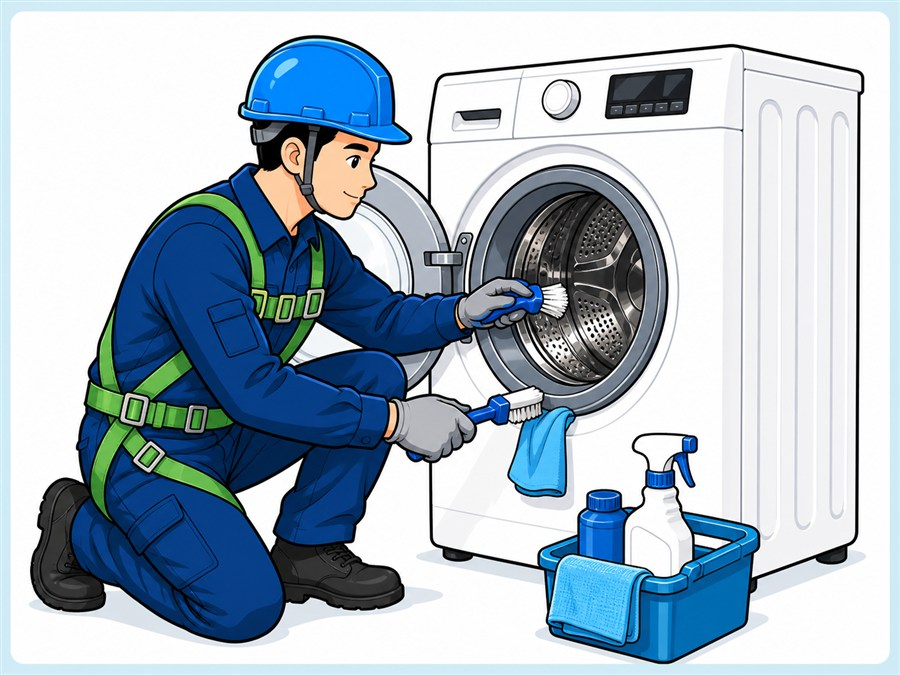
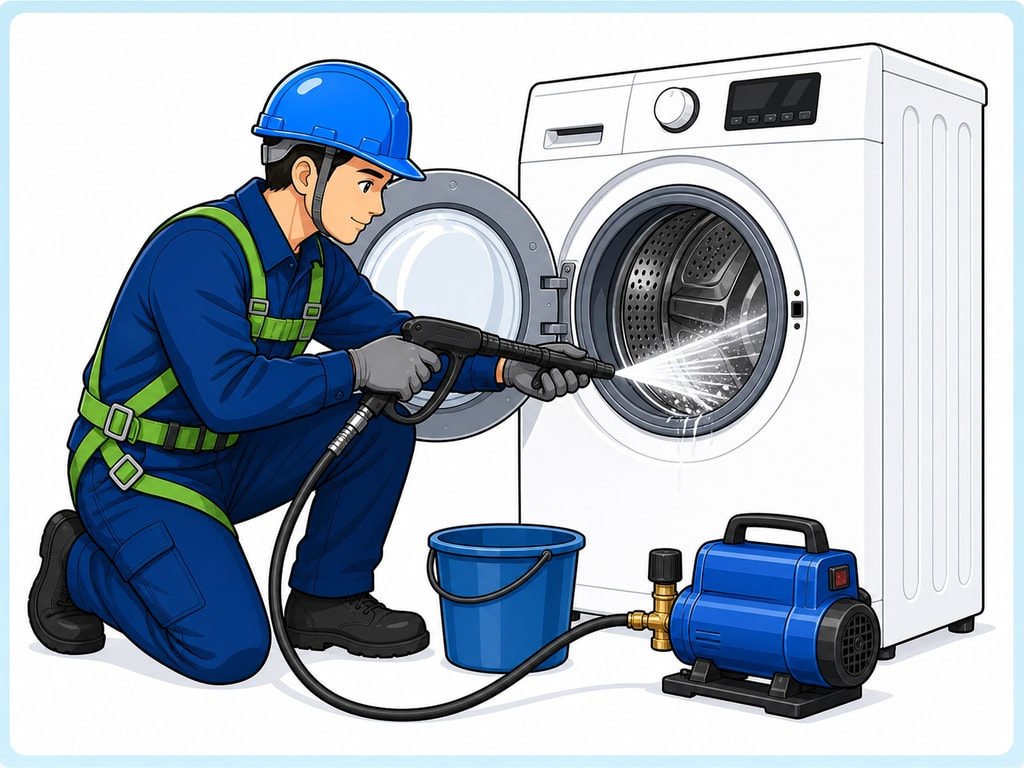
change image service: done

diff --git a/apps/web/app/page.tsx b/apps/web/app/page.tsx
@@ -4,18 +4,13 @@ import {
   ArrowRight,
   BadgeCheck,
   CalendarCheck,
-  CheckCircle2,
   Clock,
-  ClipboardCheck,
-  Droplets,
-  Fan,
   LucideIcon,
   MapPin,
   MessageCircle,
   Phone,
   ShieldCheck,
   Sparkles,
-  Wrench,
   Zap,
 } from 'lucide-react';
 import { APP_NAME, FAQS, PRIORITY_DISTRICTS, SERVICES, TARGET_CITY } from '@minhnhat/shared';
@@ -56,8 +51,6 @@ const processSteps = [
   ['04', 'Hoàn tất', 'Thi công, chạy thử, nghiệm thu và nhắc lịch bảo trì khi cần.'],
 ];
 
-const serviceIcons = [Fan, Droplets, Wrench, Zap, ClipboardCheck, ShieldCheck, CalendarCheck, CheckCircle2];
-
 export default function HomePage() {
   const phoneHref = `tel:${integrationSettings.phone.replace(/\s/g, '')}`;
 
@@ -86,8 +79,8 @@ export default function HomePage() {
               {APP_NAME}
             </h1>
             <p className="mt-6 max-w-2xl text-lg font-medium leading-8 text-slate-200">
-              Dịch vụ sửa chữa, vệ sinh và lắp đặt điện lạnh tại {TARGET_CITY}. Tập trung vào phản hồi nhanh,
-              báo giá rõ và trải nghiệm đặt lịch gọn cho khách hàng.
+              Dịch vụ sửa chữa, vệ sinh và lắp đặt điện lạnh tại {TARGET_CITY}. Tập trung vào phản
+              hồi nhanh, báo giá rõ và trải nghiệm đặt lịch gọn cho khách hàng.
             </p>
 
             <div className="mt-8 flex flex-wrap gap-3">
@@ -109,7 +102,10 @@ export default function HomePage() {
 
             <div className="mt-10 grid max-w-2xl gap-3 sm:grid-cols-3">
               {stats.map((item) => (
-                <div key={item.label} className="rounded-md border border-white/10 bg-white/10 p-4 backdrop-blur-md">
+                <div
+                  key={item.label}
+                  className="rounded-md border border-white/10 bg-white/10 p-4 backdrop-blur-md"
+                >
                   <span className={`inline-flex rounded px-2 py-1 text-xs font-bold ${item.tone}`}>
                     {item.value}
                   </span>
@@ -142,7 +138,10 @@ export default function HomePage() {
       <section className="relative -mt-10 z-10">
         <div className="container grid gap-3 md:grid-cols-3">
           {trustItems.map(({ icon: Icon, title, desc }) => (
-            <article key={title} className="rounded-md border border-slate-200 bg-white p-5 shadow-lg shadow-slate-200/70">
+            <article
+              key={title}
+              className="rounded-md border border-slate-200 bg-white p-5 shadow-lg shadow-slate-200/70"
+            >
               <div className="flex items-start gap-4">
                 <span className="inline-flex h-11 w-11 shrink-0 items-center justify-center rounded-md bg-primary text-white">
                   <Icon className="h-5 w-5" />
@@ -160,56 +159,55 @@ export default function HomePage() {
       <section className="container py-16 lg:py-20">
         <div className="flex flex-col justify-between gap-5 md:flex-row md:items-end">
           <div className="max-w-2xl">
-            <p className="text-sm font-bold uppercase tracking-wide text-primary">Dịch vụ trọng tâm</p>
+            <p className="text-sm font-bold uppercase tracking-wide text-primary">
+              Dịch vụ trọng tâm
+            </p>
             <h2 className="mt-2 text-3xl font-black tracking-normal sm:text-4xl">
               Nhìn là biết việc cần làm, bấm là đặt được lịch
             </h2>
             <p className="mt-3 text-slate-600">
-              Các nhóm dịch vụ được tách rõ để khách hàng chọn nhanh, mỗi dịch vụ có trang riêng cho SEO địa phương.
+              Các nhóm dịch vụ được tách rõ để khách hàng chọn nhanh, mỗi dịch vụ có trang riêng cho
+              SEO địa phương.
             </p>
           </div>
-          <Link className="inline-flex items-center gap-2 text-sm font-bold text-primary" href="/services">
+          <Link
+            className="inline-flex items-center gap-2 text-sm font-bold text-primary"
+            href="/services"
+          >
             Xem tất cả dịch vụ
             <ArrowRight className="h-4 w-4" />
           </Link>
         </div>
 
         <div className="mt-8 grid gap-4 sm:grid-cols-2 lg:grid-cols-4">
-          {SERVICES.map((service, index) => {
-            const Icon = serviceIcons[index % serviceIcons.length];
-
-            return (
-              <Link
-                key={service.slug}
-                href={`/services/${service.slug}`}
-                className="group overflow-hidden rounded-md border border-slate-200 bg-white shadow-sm transition duration-300 hover:-translate-y-1 hover:border-primary/50 hover:shadow-xl hover:shadow-slate-200"
-              >
-                <div className="relative aspect-[4/3] overflow-hidden bg-slate-100">
-                  <Image
-                    src={`/images/services/${service.slug}.jpg`}
-                    alt={`${service.name} tại Cần Thơ`}
-                    fill
-                    className="object-cover transition duration-700 group-hover:scale-105"
-                    sizes="(min-width: 1024px) 25vw, (min-width: 640px) 50vw, 100vw"
-                  />
-                  <div className="absolute inset-0 bg-[linear-gradient(0deg,rgb(15_23_42_/_0.42)_0%,rgb(15_23_42_/_0)_55%)]" />
-                  <span className="absolute bottom-4 left-4 inline-flex h-11 w-11 items-center justify-center rounded-md bg-white text-primary shadow-lg transition group-hover:bg-primary group-hover:text-white">
-                    <Icon className="h-6 w-6" />
-                  </span>
-                </div>
-                <div className="p-5">
-                  <h3 className="min-h-12 text-lg font-black leading-6">{service.name}</h3>
-                  <p className="mt-3 text-sm leading-6 text-slate-600">
-                    Tư vấn đúng tình trạng, báo giá trước và hỗ trợ tận nơi tại Cần Thơ.
-                  </p>
-                  <span className="mt-5 inline-flex items-center gap-2 text-sm font-bold text-primary">
-                    Xem chi tiết
-                    <ArrowRight className="h-4 w-4 transition group-hover:translate-x-1" />
-                  </span>
-                </div>
-              </Link>
-            );
-          })}
+          {SERVICES.map((service) => (
+            <Link
+              key={service.slug}
+              href={`/services/${service.slug}`}
+              className="group overflow-hidden rounded-md border border-slate-200 bg-white shadow-sm transition duration-300 hover:-translate-y-1 hover:border-primary/50 hover:shadow-xl hover:shadow-slate-200"
+            >
+              <div className="relative aspect-[4/3] overflow-hidden bg-slate-100">
+                <Image
+                  src={`/images/services/${service.slug}.jpg`}
+                  alt={`${service.name} tại Cần Thơ`}
+                  fill
+                  className="object-cover transition duration-700 group-hover:scale-105"
+                  sizes="(min-width: 1024px) 25vw, (min-width: 640px) 50vw, 100vw"
+                />
+                <div className="absolute inset-0 bg-[linear-gradient(0deg,rgb(15_23_42_/_0.42)_0%,rgb(15_23_42_/_0)_55%)]" />
+              </div>
+              <div className="p-5">
+                <h3 className="min-h-12 text-lg font-black leading-6">{service.name}</h3>
+                <p className="mt-3 text-sm leading-6 text-slate-600">
+                  Tư vấn đúng tình trạng, báo giá trước và hỗ trợ tận nơi tại Cần Thơ.
+                </p>
+                <span className="mt-5 inline-flex items-center gap-2 text-sm font-bold text-primary">
+                  Xem chi tiết
+                  <ArrowRight className="h-4 w-4 transition group-hover:translate-x-1" />
+                </span>
+              </div>
+            </Link>
+          ))}
         </div>
       </section>
 
@@ -242,13 +240,15 @@ export default function HomePage() {
           </div>
 
           <div>
-            <p className="text-sm font-bold uppercase tracking-wide text-primary">Phủ sóng địa phương</p>
+            <p className="text-sm font-bold uppercase tracking-wide text-primary">
+              Phủ sóng địa phương
+            </p>
             <h2 className="mt-2 text-3xl font-black tracking-normal sm:text-4xl">
               Tối ưu cho khách hàng đang cần thợ gần mình
             </h2>
             <p className="mt-4 max-w-2xl leading-8 text-slate-700">
-              Trang khu vực giúp người dùng đi thẳng đến dịch vụ tại quận đang sinh sống. Điều này làm website
-              thực dụng hơn, dễ chuyển đổi hơn và hỗ trợ SEO địa phương tốt hơn.
+              Trang khu vực giúp người dùng đi thẳng đến dịch vụ tại quận đang sinh sống. Điều này
+              làm website thực dụng hơn, dễ chuyển đổi hơn và hỗ trợ SEO địa phương tốt hơn.
             </p>
 
             <div className="mt-7 grid gap-3 sm:grid-cols-2">
@@ -280,7 +280,8 @@ export default function HomePage() {
               Rõ từng bước, dễ ra quyết định
             </h2>
             <p className="mt-4 leading-8 text-slate-700">
-              Từ lúc khách gửi yêu cầu đến lúc nghiệm thu, quy trình được giữ ngắn gọn để tiết kiệm thời gian.
+              Từ lúc khách gửi yêu cầu đến lúc nghiệm thu, quy trình được giữ ngắn gọn để tiết kiệm
+              thời gian.
             </p>
             <div className="mt-6 flex flex-wrap gap-3">
               <a
@@ -297,7 +298,10 @@ export default function HomePage() {
 
           <div className="grid gap-4 sm:grid-cols-2">
             {processSteps.map(([number, title, desc]) => (
-              <article key={number} className="rounded-md border border-slate-200 bg-white p-5 shadow-sm">
+              <article
+                key={number}
+                className="rounded-md border border-slate-200 bg-white p-5 shadow-sm"
+              >
                 <p className="text-sm font-black text-primary">{number}</p>
                 <h3 className="mt-3 text-lg font-black">{title}</h3>
                 <p className="mt-2 text-sm leading-6 text-slate-600">{desc}</p>
@@ -310,13 +314,18 @@ export default function HomePage() {
       <section className="bg-slate-950 py-16 text-white lg:py-20">
         <div className="container grid gap-8 lg:grid-cols-[0.95fr_1.05fr]">
           <div>
-            <p className="text-sm font-bold uppercase tracking-wide text-cyan-300">FAQ và báo giá</p>
+            <p className="text-sm font-bold uppercase tracking-wide text-cyan-300">
+              FAQ và báo giá
+            </p>
             <h2 className="mt-2 text-3xl font-black tracking-normal sm:text-4xl">
               Trả lời nhanh các băn khoăn trước khi đặt lịch
             </h2>
             <div className="mt-7 grid gap-4">
               {FAQS.map((faq) => (
-                <article key={faq.question} className="rounded-md border border-white/10 bg-white/[0.06] p-4">
+                <article
+                  key={faq.question}
+                  className="rounded-md border border-white/10 bg-white/[0.06] p-4"
+                >
                   <h3 className="font-bold">{faq.question}</h3>
                   <p className="mt-2 text-sm leading-6 text-slate-300">{faq.answer}</p>
                 </article>
